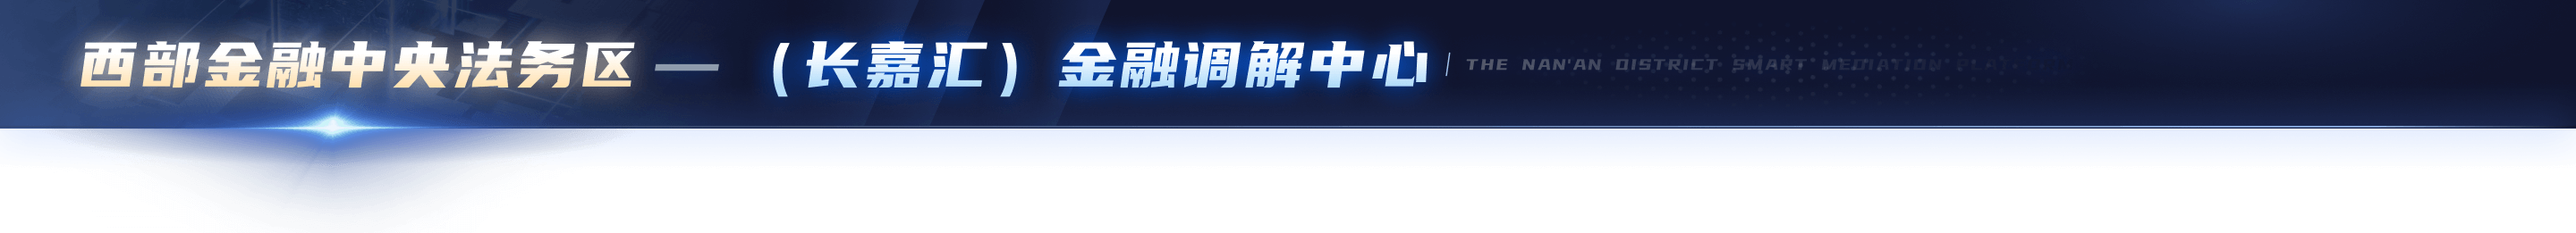
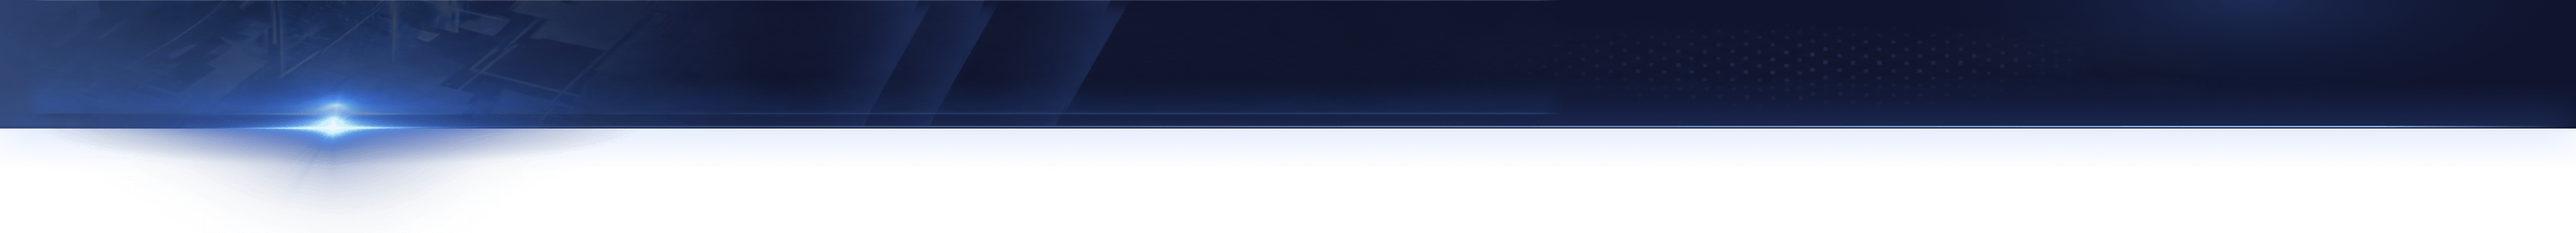
feat: 顶栏标题改为 HTML 渲染的"重庆金融调解中心"
背景换成无文字版 navbar-no-text-transparent.png，标题用
YouSheBiaoTiHei + 白→金渐变文字复刻原图样式，后续改标题只需改文案。
标题置于扫光层之下，扫过时随之点亮；加 translateZ(0) 规避
Chromium 合成缺陷（background-clip:text 元素在 mix-blend-mode
背景组中导致混合层整体不绘制）。

diff --git a/src/components/layout/HeaderBar.vue b/src/components/layout/HeaderBar.vue
@@ -42,6 +42,7 @@ async function toggleFs() {
 <template>
   <header class="header">
     <img class="layer" :src="headerImg" alt="" />
+    <h1 class="title">重庆金融调解中心</h1>
     <div class="scan" aria-hidden="true"></div>
     <div class="timer">{{ now }}</div>
     <img class="fs-btn" :src="isFs ? fsOut : fsIn" alt="全屏" @click="toggleFs" />
@@ -51,6 +52,19 @@ async function toggleFs() {
 <style scoped>
 .header { position: absolute; left: 0; top: 0; width: 1920px; height: 174px; z-index: 20; pointer-events: none; }
 .layer { position: absolute; left: 0; top: 0; width: 1920px; height: 174px; object-fit: cover; }
+/* 标题：白→金渐变文字，复刻原图样式；置于 .scan 之前，扫光经过时随之点亮 */
+.title {
+  position: absolute; left: 60px; top: 22px; margin: 0;
+  font-family: 'YouSheBiaoTiHei'; font-size: 48px; font-weight: normal;
+  line-height: 66px; letter-spacing: 3px; white-space: nowrap;
+  background: linear-gradient(180deg, #ffffff 30%, #ffedc8 65%, #f3cf95 95%);
+  -webkit-background-clip: text;
+  background-clip: text;
+  color: transparent;
+  /* Chromium 合成 bug：background-clip:text 的元素若留在 .scan(mix-blend-mode) 的背景组里，
+     混合层整体不绘制；提升为独立合成层可规避 */
+  transform: translateZ(0);
+}
 /* 扫光只在 header-bar.png 的可见像素上显形：容器用图自身做 mask，光带在容器内部平移 */
 .scan {
   position: absolute; left: 0; top: 0; width: 1920px; height: 174px;
